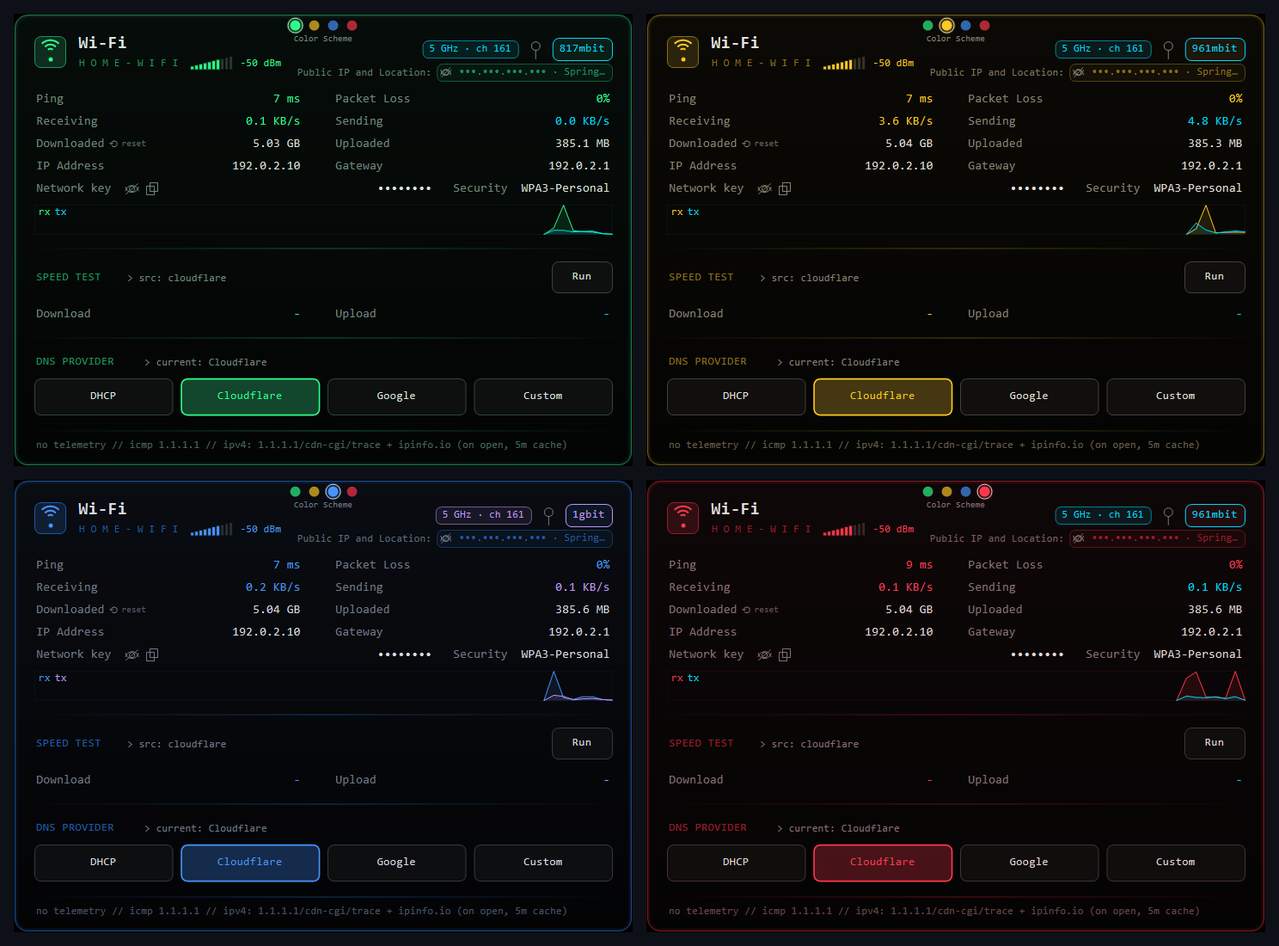
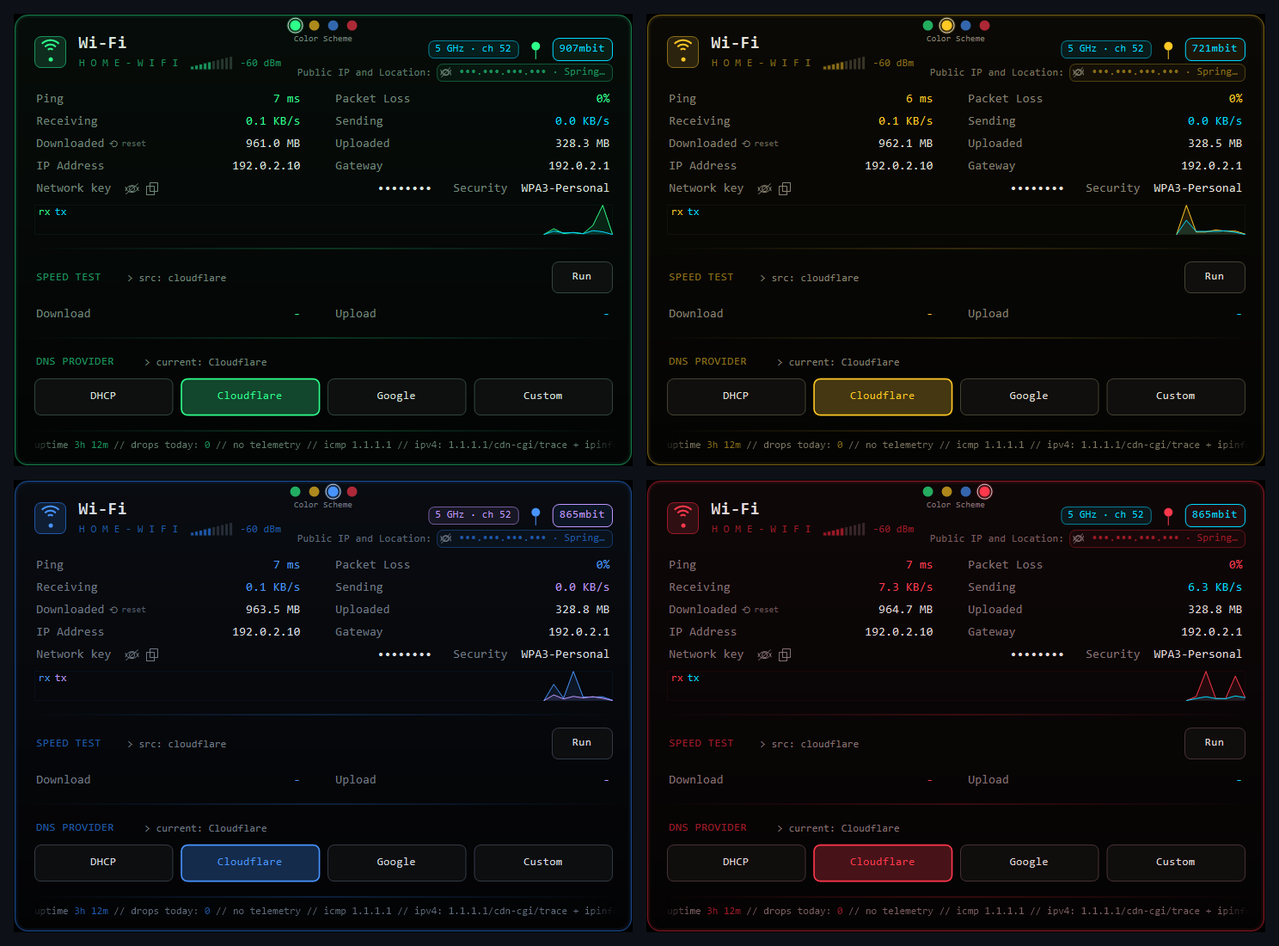
Footer: connection uptime (Windows NetworkProfile log), drops today, smooth marquee; docs and v1.2.0 checksums

diff --git a/NetPanel.cs b/NetPanel.cs
@@ -1,4 +1,4 @@
-using System;using System.Drawing;using System.Drawing.Drawing2D;using System.Windows.Forms;using System.Net;using System.Net.NetworkInformation;using System.Net.Sockets;
+using System;using System.Globalization;using System.Drawing;using System.Drawing.Drawing2D;using System.Windows.Forms;using System.Net;using System.Net.NetworkInformation;using System.Net.Sockets;
 using System.Collections.Generic;using System.Linq;using System.Threading;using System.Threading.Tasks;using System.Diagnostics;using System.IO;using Microsoft.Win32;using System.Runtime.InteropServices;using System.Text.RegularExpressions;using System.Management;
 class P{
  [DllImport("iphlpapi.dll")] static extern int GetBestInterface(uint dest,out uint idx);
@@ -14,7 +14,7 @@ class P{
   if(a.Length>0&&a[0]=="--trigger"){try{EventWaitHandle.OpenExisting("NetPanel_"+P.U+"_test").Set();}catch{return 2;}return 0;}
   if(!created&&shot==null) return 0;
   Application.EnableVisualStyles();
-  if(shot!=null){var f=new Panel();int ti=Array.IndexOf(a,"--theme");if(ti>=0&&ti+1<a.Length){int tv=Array.IndexOf(Th.Names,a[ti+1]);if(tv>=0)Th.Id=tv;}if(a.Contains("--demo"))Demo=true;f.Shot(shot,speed);return 0;}
+  if(shot!=null){var f=new Panel();int ti=Array.IndexOf(a,"--theme");if(ti>=0&&ti+1<a.Length){int tv=Array.IndexOf(Th.Names,a[ti+1]);if(tv>=0)Th.Id=tv;}if(a.Contains("--demo"))Demo=true;int hi2=Array.IndexOf(a,"--hold");int hv;if(hi2>=0&&hi2+1<a.Length&&int.TryParse(a[hi2+1],out hv))f.Hold=hv;f.Shot(shot,speed);return 0;}
   new Tray();Application.Run();GC.KeepAlive(m);return 0;}
  static int SetDns(string[] a){ // --setdns ifIndex mode [servers...]
   string idx=a[1],mode=a[2];string cmd;
@@ -48,10 +48,38 @@ static class Th{
   double q=l<0.5?l*(1+s):l+s-l*s,p=2*l-q;Func<double,double> f=t=>{if(t<0)t+=1;if(t>1)t-=1;return t<1/6.0?p+(q-p)*6*t:t<0.5?q:t<2/3.0?p+(q-p)*(2/3.0-t)*6:p;};
   return Color.FromArgb((int)Math.Round(f(h/360+1/3.0)*255),(int)Math.Round(f(h/360)*255),(int)Math.Round(f(h/360-1/3.0)*255));}
 }
+// ---------- connection uptime / drops (no extra traffic) ----------
+// A drop = the link goes from up to down. Down means no active interface (P.Active()==null: adapter down, no default route, Offline),
+// sampled every 2 s by the tray timer (1 s while the panel is open), or 3 consecutive failed pings (~6 s) while the panel is open and the interface is up.
+// Uptime = since the current connection came up: Windows NetworkProfile connect time (see Sync) when available, else since NetPanel saw it come up / started.
+// A drop NetPanel sees, or resume from sleep/hibernate, restarts uptime. Drops reset at local midnight.
+static class Link{
+ public static bool Up;static bool init,pingDown;static int fails;public static DateTime Since=DateTime.Now,Day=DateTime.Today;public static int Drops;public static Action Changed;
+ static void Roll(){if(DateTime.Today!=Day){Day=DateTime.Today;Drops=0;if(Changed!=null)Changed();}}
+ public static void Iface(bool up){Roll();if(!up){pingDown=false;fails=0;}Set(up&&!pingDown);}
+ public static void Ping(bool ok){Roll();if(!Up&&!pingDown)return;if(ok){fails=0;if(pingDown){pingDown=false;Set(true);}}else if(++fails==3){pingDown=true;Set(false);}}
+ static void Set(bool on){if(!init){init=true;Up=on;Since=DateTime.Now;if(on)Sync();return;}if(Up&&!on){Up=false;gen++;Drops++;Since=DateTime.Now;if(Changed!=null)Changed();}else if(!Up&&on){Up=true;gen++;Since=floor=DateTime.Now;Sync();}}
+ // Windows connect time: newest NetworkProfile/Operational 10000 (connected) for the active adapter's network name, unless a newer
+ // 10001 (disconnected) for that name comes first. Log is readable by Interactive Users (no admin). Queried off the UI thread only
+ // at startup, after a reconnect NetPanel sees, and on resume - never per tick. Result is clamped to 'floor' (last up transition
+ // NetPanel saw itself, or resume from sleep/hibernate) so ping-detected drops and sleep still reset uptime. Not found -> keep local value.
+ static DateTime floor=DateTime.MinValue;static int gen;public static string Src="local";
+ static Link(){try{Microsoft.Win32.SystemEvents.PowerModeChanged+=(s,e)=>{if(e.Mode==Microsoft.Win32.PowerModes.Resume){floor=DateTime.Now;if(Since<floor)Since=floor;Sync();}};}catch{}}
+ public static void Sync(){int g0=gen;DateTime fl=floor;System.Threading.ThreadPool.QueueUserWorkItem(_=>{try{var t=WinConnect();if(t==null)return;var v=t.Value<fl?fl:t.Value;if(v>DateTime.Now)return;
+   if(gen==g0&&Up){Since=v;Src="NetworkProfile 10000";}}catch{}});}
+ public static DateTime? WinConnect(){var n=P.Active();if(n==null)return null;int idx=n.GetIPProperties().GetIPv4Properties().Index;string name=null;
+  using(var q=new System.Management.ManagementObjectSearcher(@"root\StandardCimv2","SELECT Name FROM MSFT_NetConnectionProfile WHERE InterfaceIndex="+idx))foreach(System.Management.ManagementObject o in q.Get()){name=o["Name"] as string;break;}
+  if(string.IsNullOrEmpty(name))return null;
+  var lq=new System.Diagnostics.Eventing.Reader.EventLogQuery("Microsoft-Windows-NetworkProfile/Operational",System.Diagnostics.Eventing.Reader.PathType.LogName,"*[System[(EventID=10000 or EventID=10001)]]"){ReverseDirection=true};
+  using(var r=new System.Diagnostics.Eventing.Reader.EventLogReader(lq))for(int i=0;i<64;i++){using(var e=r.ReadEvent()){if(e==null)break;if(e.Properties.Count<1||(e.Properties[0].Value as string)!=name)continue;
+   return e.Id==10000&&e.TimeCreated.HasValue?e.TimeCreated:null;}}
+  return null;}
+ public static string UptimeText(){if(!Up)return "down";var t=DateTime.Now-Since;return t.TotalDays>=1?(int)t.TotalDays+"d "+t.Hours+"h":t.TotalHours>=1?(int)t.TotalHours+"h "+t.Minutes+"m":t.Minutes+"m";}
+}
 class Tray{
  NotifyIcon ni=new NotifyIcon();Panel panel;System.Windows.Forms.Timer t=new System.Windows.Forms.Timer();long lr,lt;IntPtr hi;
  public Tray(){
-  panel=new Panel();ni.Text="NetPanel";Upd(0,0);ni.Visible=true;
+  panel=new Panel();ni.Text="NetPanel";Upd(0,0);ni.Visible=true;Link.Iface(P.Active()!=null);
   var cm=new ContextMenuStrip();cm.Renderer=new ToolStripProfessionalRenderer(new DarkColors());cm.BackColor=Th.C(12,14,13);cm.ForeColor=Th.C(46,255,138);Panel.ThemeChanged=()=>{cm.BackColor=Th.C(12,14,13);cm.ForeColor=Th.C(46,255,138);Upd(0,0);};cm.Font=new Font("Consolas",10);
   cm.Items.Add("Open",null,(s,e)=>panel.ShowNear());
   var st=new ToolStripMenuItem("Start with Windows"){Checked=Auto,CheckOnClick=true};st.Click+=(s,e)=>Auto=st.Checked;cm.Items.Add(st);
@@ -59,7 +87,7 @@ class Tray{
   ni.MouseClick+=(s,e)=>{if(e.Button==MouseButtons.Left){if(panel.Visible||(DateTime.Now-panel.Hidden).TotalMilliseconds<250)panel.Hide();else panel.ShowNear();}};
   if(P.Dev){var ev=new EventWaitHandle(false,EventResetMode.AutoReset,"NetPanel_"+P.U+"_test");var sync=new System.Windows.Forms.Timer{Interval=1};sync.Dispose();
   var evT=new System.Windows.Forms.Timer{Interval=1000};evT.Tick+=(s,e)=>{if(ev.WaitOne(0)){var cf=Path.Combine(P.Dir,"cmd.txt");if(File.Exists(cf)){var c=File.ReadAllText(cf).Trim();File.Delete(cf);panel.Cmd(c);}else panel.SelfTest();}};evT.Start();GC.KeepAlive(ev);}
-  t.Interval=2000;t.Tick+=(s,e)=>{try{var n=P.Active();var st2=n.GetIPStatistics();long r=st2.BytesReceived,x=st2.BytesSent;Upd(lr==0?0:r-lr,lt==0?0:x-lt);lr=r;lt=x;}catch{}};t.Start();}
+  t.Interval=2000;t.Tick+=(s,e)=>{try{var n=P.Active();Link.Iface(n!=null);var st2=n.GetIPStatistics();long r=st2.BytesReceived,x=st2.BytesSent;Upd(lr==0?0:r-lr,lt==0?0:x-lt);lr=r;lt=x;}catch{}};t.Start();}
  static bool Auto{get{using(var k=Registry.CurrentUser.OpenSubKey(@"Software\Microsoft\Windows\CurrentVersion\Run"))return k.GetValue("NetPanel")!=null;}
   set{using(var k=Registry.CurrentUser.CreateSubKey(@"Software\Microsoft\Windows\CurrentVersion\Run")){if(value)k.SetValue("NetPanel","\""+Application.ExecutablePath+"\"");else k.DeleteValue("NetPanel",false);}}}
  void Upd(long rx,long tx){
@@ -81,13 +109,15 @@ class Panel:Form{
  System.Windows.Forms.Timer tick=new System.Windows.Forms.Timer(),pingT=new System.Windows.Forms.Timer();
  NetworkInterface nic;long lr=-1,lt=-1;double rxR,txR;long totR,totT;string ip="-",gw="-",name="-",speedBadge="",dnsCur="?";int ifIdx=-1;
  Queue<long> pings=new Queue<long>();double lastPing=-1;List<double> rxH=new List<double>(),txH=new List<double>();
- public DateTime Hidden;bool testing;string stPhase="";double stProg,dlM=-1,ulM=-1;string status="";
+ public DateTime Hidden;bool testing;string stPhase="";double stProg,dlM=-1,ulM=-1;string st_="";DateTime stAt;string status{get{return st_;}set{st_=value??"";stAt=DateTime.Now;}}
  RectangleF runR;RectangleF[] dnsR=new RectangleF[4];string[] dnsN={"DHCP","Cloudflare","Google","Custom"};int hover=-2;
  public Panel(){FormBorderStyle=FormBorderStyle.None;ShowInTaskbar=false;TopMost=true;StartPosition=FormStartPosition.Manual;Size=new Size(720,526);BackColor=Color.Black;DoubleBuffered=true;KeyPreview=true;
   tick.Interval=1000;tick.Tick+=(s,e)=>Refresh1();pingT.Interval=2000;pingT.Tick+=(s,e)=>DoPing();
   KeyDown+=(s,e)=>{if(e.KeyCode==Keys.Escape)Hide();};Deactivate+=(s,e)=>OnDeact();NetworkChange.NetworkAddressChanged+=(s,e)=>{try{BeginInvoke((Action)(()=>{netFor=null;ipFor=null;if(Visible){Refresh1();MaybeIp();}}));}catch{}};LoadSettings();
   MouseDown+=(s,e)=>{if(pinned&&e.Button==MouseButtons.Left&&Hit(e.Location)==-2){ReleaseCapture();SendMessage(Handle,0xA1,(IntPtr)2,IntPtr.Zero);px=Left;py=Top;SaveSettings();}};
   anim=new System.Windows.Forms.Timer{Interval=80};anim.Tick+=(s,e)=>{if(rssi!=int.MinValue){double t=Math.Max(0,Math.Min(1,(rssi+90)/60.0));shownLvl+=(t-shownLvl)*0.2;}Invalidate(new Rectangle(70,44,330,26));};
+  Link.Changed=()=>{try{if(IsHandleCreated&&InvokeRequired)BeginInvoke((Action)SaveSettings);else SaveSettings();}catch{}};footT.Interval=15;footT.Tick+=(s,e)=>FootTick();
+  VisibleChanged+=(s,e)=>{if(!Visible)footT.Stop();};
   VisibleChanged+=(s,e)=>{if(Visible){tick.Start();anim.Start();pingT.Start();Refresh1();DoPing();MaybeIp();}else{tick.Stop();pingT.Stop();anim.Stop();tip.SetToolTip(this,"");Hidden=DateTime.Now;wkey=null;reveal=false;}};
   MouseMove+=(s,e)=>{bool ok=reveal&&wkey!=null&&keyR.Contains(e.Location)&&keyMode.Contains("ellipsized");if(ok&&tip.GetToolTip(this)!=wkey)tip.SetToolTip(this,wkey);else if(!ok&&tip.GetToolTip(this)!="")tip.SetToolTip(this,"");int h=Hit(e.Location);if(h!=hover){hover=h;Cursor=h>-2?Cursors.Hand:Cursors.Default;Invalidate();}};
   MouseClick+=(s,e)=>Click1(Hit(e.Location));
@@ -101,7 +131,7 @@ class Panel:Form{
  bool IsWifi(NetworkInterface n){var t=n.NetworkInterfaceType;if(t==NetworkInterfaceType.Wireless80211)return true;if(t==NetworkInterfaceType.Ethernet||t==NetworkInterfaceType.GigabitEthernet)return false;
   if(wlanIds==null){wlanIds=new HashSet<string>();try{if(wlanH==IntPtr.Zero){int nv;WlanOpenHandle(2,IntPtr.Zero,out nv,out wlanH);}IntPtr list;if(WlanEnumInterfaces(wlanH,IntPtr.Zero,out list)==0){int c=Marshal.ReadInt32(list);for(int i=0;i<c;i++){var b=new byte[16];Marshal.Copy(list+8+i*532,b,0,16);wlanIds.Add(new Guid(b).ToString("B").ToUpperInvariant());}WlanFreeMemory(list);}}catch{}}
   return wlanIds.Contains(n.Id.ToUpperInvariant());}
- void Refresh1(){try{var n=P.Active();if(n==null){if(!offline){offline=true;nic=null;name="Offline";netName="";isWifi=false;rxR=txR=0;ip=gw="-";speedBadge="no link";rssi=int.MinValue;bandCh="";}Invalidate();return;}offline=false;if(nic==null||n.Id!=nic.Id){nic=n;lr=-1;lt=-1;}
+ void Refresh1(){try{var n=P.Active();Link.Iface(n!=null);if(n==null){if(!offline){offline=true;nic=null;name="Offline";netName="";isWifi=false;rxR=txR=0;ip=gw="-";speedBadge="no link";rssi=int.MinValue;bandCh="";}Invalidate();return;}offline=false;if(nic==null||n.Id!=nic.Id){nic=n;lr=-1;lt=-1;}
    var s=nic.GetIPStatistics();if(lr>=0){rxR=Math.Max(0,s.BytesReceived-lr);txR=Math.Max(0,s.BytesSent-lt);}lr=s.BytesReceived;lt=s.BytesSent;long[] bs;if(!bases.TryGetValue(nic.Id,out bs)){bs=new long[]{0,0};bases[nic.Id]=bs;}if(lr<bs[0]||lt<bs[1]){bs[0]=0;bs[1]=0;SaveSettings();}totR=lr-bs[0];totT=lt-bs[1];isWifi=IsWifi(nic);
    if((DateTime.Now-netQ).TotalSeconds>5||netFor!=nic.Id){netQ=DateTime.Now;netFor=nic.Id;var nn=nic;Task.Run(()=>QueryNet(nn));}
    rxH.Add(rxR);txH.Add(txR);if(rxH.Count>60){rxH.RemoveAt(0);txH.RemoveAt(0);}
@@ -121,7 +151,7 @@ class Panel:Form{
   // registry unreadable: fall back to a freshly enumerated adapter's IPv4 DNS list
   var f=Fresh(P.Index(n))??n;try{var a=f.GetIPProperties().DnsAddresses.FirstOrDefault(x=>x.AddressFamily==AddressFamily.InterNetwork);return a==null?"DHCP":Classify(a.ToString());}catch{return "?";}}
  void DoPing(){var pg=new Ping();pg.PingCompleted+=(s,e)=>{long v=(e.Error==null&&e.Reply!=null&&e.Reply.Status==IPStatus.Success)?e.Reply.RoundtripTime:-1;
-   lock(pings){pings.Enqueue(v);while(pings.Count>20)pings.Dequeue();}if(v>=0)lastPing=v;pg.Dispose();if(IsHandleCreated)BeginInvoke((Action)Invalidate);};
+   lock(pings){pings.Enqueue(v);while(pings.Count>20)pings.Dequeue();}if(v>=0)lastPing=v;pg.Dispose();if(IsHandleCreated)BeginInvoke((Action)(()=>Link.Ping(v>=0)));if(IsHandleCreated)BeginInvoke((Action)Invalidate);};
   try{pg.SendAsync(IPAddress.Parse("1.1.1.1"),1500,null);}catch{}}
  void Click1(int h){if(h>=20&&h<=23){SetTheme(h-20);return;}if(h==15){ipMask=!ipMask;Invalidate();return;}if(h==14){if(pubIp!=null){try{Clipboard.SetText(pubIp);status="public ip copied to clipboard";}catch{}Invalidate();}else if(ipState=="offline")MaybeIp(true);return;}if(h==10){DoReset();return;}if(h==11){pinned=!pinned;if(pinned){px=Left;py=Top;}SaveSettings();Invalidate();return;}if(h==12){if(reveal){reveal=false;Invalidate();}else FetchKey(()=>{reveal=true;});return;}if(h==13){FetchKey(()=>{try{Clipboard.SetText(wkey);status="network key copied to clipboard";}catch{}});return;}if(h==-1&&!testing)RunSpeed();else if(h>=0)SetDns(h);}
  // ---------- speed test ----------
@@ -189,6 +219,7 @@ class Panel:Form{
   var fill=new List<PointF>(pts){new PointF(pts.Last().X,r.Bottom),new PointF(pts[0].X,r.Bottom)};g.FillPolygon(new SolidBrush(Color.FromArgb(28,c)),fill.ToArray());g.DrawLines(new Pen(c,1.4f),pts.ToArray());}
  protected override void OnPaint(PaintEventArgs e){if(P.Demo){ip="192.0.2.10";gw="192.0.2.1";netName="HOME-WIFI";mac="00:00:5E:00:53:01";pubIp="203.0.113.7";pubLoc="Springfield";ipMask=true;reveal=false;}var g=e.Graphics;g.SmoothingMode=SmoothingMode.AntiAlias;g.TextRenderingHint=System.Drawing.Text.TextRenderingHint.ClearTypeGridFit;
   var full=new RectangleF(0,0,Width-1,Height-1);using(var p=Rnd(full,16))using(var bg=new LinearGradientBrush(full,Th.C(6,12,9),Th.C(3,4,4),90f))g.FillPath(bg,p);
+  if(footR.Contains(e.ClipRectangle)){Footer(g);return;}
   for(int i=4;i>=1;i--)using(var p=Rnd(new RectangleF(i,i,Width-1-2*i,Height-1-2*i),16-i))g.DrawPath(new Pen(Th.C(18*(5-i),25,146,91),1.5f),p);
   using(var p=Rnd(new RectangleF(1,1,Width-3,Height-3),15))g.DrawPath(new Pen(Th.C(200,25,146,91),1.2f),p);
   // header icon
@@ -218,7 +249,7 @@ class Panel:Form{
   Row(g,340,"Download",dlM==-2?"error: "+(dlErr??"?"):dlM<0?"-":dlM.ToString("0")+" Mbps","Upload",ulM<0?"-":ulM.ToString("0")+" Mbps",HI,CY);
   Sep(g,376);g.DrawString("DNS PROVIDER",fB,new SolidBrush(EM),24,396);g.DrawString("> current: "+dnsCur,fS,new SolidBrush(DIM),150,398);
   float bw=(Width-48-3*10)/4f;for(int i=0;i<4;i++){dnsR[i]=new RectangleF(24+i*(bw+10),424,bw,42);Btn(g,dnsR[i],dnsN[i],dnsCur==dnsN[i],hover==i);}
-  Sep(g,484);g.DrawString(status!=""?status:"no telemetry // icmp 1.1.1.1 // ipv4: "+(ipSrc??"1.1.1.1/cdn-cgi/trace + ipinfo.io")+" (on open, 5m cache)",fS,new SolidBrush(Th.C(70,100,85)),24,494);}
+  Sep(g,484);Footer(g);}
  // ---------- theme bubbles (hit codes 20-23) ----------
  RectangleF[] thR=new RectangleF[4];public static Action ThemeChanged;int themeSaved;
  void Bubbles(Graphics g){const float D=12,GAP=10;float x0=Width/2f-(4*D+3*GAP)/2f,y=7;
@@ -228,6 +259,33 @@ class Panel:Form{
    if(sel)using(var pn=new Pen(Color.FromArgb(230,TX),1.3f))g.DrawEllipse(pn,RectangleF.Inflate(r,2.5f,2.5f));else if(hov)using(var pn=new Pen(Color.FromArgb(150,c),1f))g.DrawEllipse(pn,RectangleF.Inflate(r,2.5f,2.5f));}
   var lf=new Font("Consolas",7.5f);g.DrawString("Color Scheme",lf,new SolidBrush(DIM),new RectangleF(Width/2f-60,23,120,12),new StringFormat{Alignment=StringAlignment.Center});lf.Dispose();}
  void SetTheme(int t){if(t<0||t>3)return;Th.Id=t;themeSaved=t;SaveSettings();if(ThemeChanged!=null)ThemeChanged();Invalidate();}
+ // ---------- footer: uptime/drops + brief action messages + smooth marquee ----------
+ static readonly Rectangle footR=new Rectangle(20,488,680,26);const float FX=24,FW=672,FY=494,SPEED=35f;const double MSG=4.0,FADE=0.35;
+ System.Windows.Forms.Timer footT=new System.Windows.Forms.Timer();Stopwatch footSw=Stopwatch.StartNew();double footLast,mqPos;bool footAnim;string footMode="";
+ static StringFormat TypoFmt(){var f=(StringFormat)StringFormat.GenericTypographic.Clone();f.FormatFlags|=StringFormatFlags.MeasureTrailingSpaces|StringFormatFlags.NoWrap;return f;}
+ static readonly StringFormat typo=TypoFmt();
+ List<KeyValuePair<string,Color>> FootSegs(out string mode,out int alpha){var segs=new List<KeyValuePair<string,Color>>();Color dim=Th.C(95,125,108),acc=EM;alpha=255;
+  double age=(DateTime.Now-stAt).TotalSeconds;
+  if(st_!=""&&age<MSG){mode="msg:"+st_;if(age>MSG-FADE)alpha=(int)(255*(MSG-age)/FADE);else if(age<FADE)alpha=(int)(255*age/FADE);segs.Add(new KeyValuePair<string,Color>(st_,TX));return segs;}
+  mode="default";if(st_!=""&&age<MSG+FADE)alpha=(int)(255*Math.Min(1,(age-MSG)/FADE));
+  string up=P.Demo?"3h 12m":Link.UptimeText(),dr=P.Demo?"0":Link.Drops.ToString();
+  segs.Add(new KeyValuePair<string,Color>("uptime ",dim));segs.Add(new KeyValuePair<string,Color>(up,acc));segs.Add(new KeyValuePair<string,Color>(" // drops today: ",dim));
+  segs.Add(new KeyValuePair<string,Color>(dr,Link.Drops>0&&!P.Demo?HI:acc));
+  segs.Add(new KeyValuePair<string,Color>(" // no telemetry // icmp 1.1.1.1 // ipv4: "+(ipSrc??"1.1.1.1/cdn-cgi/trace + ipinfo.io")+" (on open, 5m cache)",dim));return segs;}
+ float DrawSegs(Graphics g,List<KeyValuePair<string,Color>> segs,float x,int alpha,bool draw){foreach(var sg in segs){float w=g.MeasureString(sg.Key,fS,PointF.Empty,typo).Width;
+   if(draw&&x<FX+FW&&x+w>FX)using(var b=new SolidBrush(Color.FromArgb(alpha*sg.Value.A/255,sg.Value)))g.DrawString(sg.Key,fS,b,x,FY,typo);x+=w;}return x;}
+ void Footer(Graphics g){string mode;int alpha;var segs=FootSegs(out mode,out alpha);if(mode!=footMode){footMode=mode;mqPos=0;}
+  var st=g.Save();g.SetClip(new RectangleF(FX-4,footR.Y,FW+8,footR.Height));float w=DrawSegs(g,segs,0,0,false);bool scroll=w>FW;
+  double age=(DateTime.Now-stAt).TotalSeconds;footAnim=scroll||(st_!=""&&age<MSG+FADE);
+  if(!scroll)DrawSegs(g,segs,FX,alpha,true);
+  else{g.TextRenderingHint=System.Drawing.Text.TextRenderingHint.AntiAlias;const string SEP="   \u2022   ";float sw=g.MeasureString(SEP,fS,PointF.Empty,typo).Width,cyc=w+sw;if(mqPos>=cyc)mqPos%=cyc;
+   for(float x=FX-(float)mqPos;x<FX+FW;x+=cyc){DrawSegs(g,segs,x,alpha,true);using(var b=new SolidBrush(Color.FromArgb(alpha*140/255,EM)))g.DrawString(SEP,fS,b,x+w,FY,typo);}
+   // soft fade at both edges: blend into the panel background
+   float t=(float)FY/Height;Color a1=Th.C(6,12,9),a2=Th.C(3,4,4),bgc=Color.FromArgb((int)(a1.R+(a2.R-a1.R)*t),(int)(a1.G+(a2.G-a1.G)*t),(int)(a1.B+(a2.B-a1.B)*t));const float E=28;
+   using(var lb=new LinearGradientBrush(new RectangleF(FX-5,0,E+1,10),bgc,Color.FromArgb(0,bgc),0f))g.FillRectangle(lb,FX-4,footR.Y,E,footR.Height);
+   using(var rb=new LinearGradientBrush(new RectangleF(FX+FW-E-1,0,E+5,10),Color.FromArgb(0,bgc),bgc,0f))g.FillRectangle(rb,FX+FW-E+4,footR.Y,E,footR.Height);}
+  g.Restore(st);if(footAnim&&Visible&&!footT.Enabled){footLast=footSw.Elapsed.TotalSeconds;footT.Start();}}
+ void FootTick(){double now=footSw.Elapsed.TotalSeconds,dt=Math.Min(0.1,now-footLast);footLast=now;if(!Visible||!footAnim){footT.Stop();Invalidate(footR);return;}mqPos+=SPEED*dt;Invalidate(footR);}
  bool shooting;
 
  [DllImport("user32.dll")] static extern bool ReleaseCapture();[DllImport("user32.dll")] static extern IntPtr SendMessage(IntPtr h,int m,IntPtr w,IntPtr l);
@@ -235,9 +293,9 @@ class Panel:Form{
  bool isWifi,reveal;string wkey,keyErr,netName="",auth="-",netFor;DateTime netQ;RectangleF resetR,pinR,eyeR,copyR;
  string SetPath{get{return Path.Combine(P.Dir,"settings");}}
  void LoadSettings(){try{foreach(var l in File.ReadAllLines(SetPath)){var kv=l.Split(new[]{'='},2);if(kv.Length<2)continue;
-   if(kv[0]=="pinned")pinned=kv[1]=="1";else if(kv[0]=="theme"){int tv;if(int.TryParse(kv[1],out tv)&&tv>=0&&tv<4){Th.Id=tv;themeSaved=tv;}}else if(kv[0]=="pos"){var p=kv[1].Split(',');px=int.Parse(p[0]);py=int.Parse(p[1]);}
+   if(kv[0]=="pinned")pinned=kv[1]=="1";else if(kv[0]=="drops"){var p=kv[1].Split(',');DateTime d;int n;if(p.Length==2&&DateTime.TryParseExact(p[0],"yyyy-MM-dd",CultureInfo.InvariantCulture,DateTimeStyles.None,out d)&&d==DateTime.Today&&int.TryParse(p[1],out n)){Link.Drops=n;Link.Day=d;}}else if(kv[0]=="theme"){int tv;if(int.TryParse(kv[1],out tv)&&tv>=0&&tv<4){Th.Id=tv;themeSaved=tv;}}else if(kv[0]=="pos"){var p=kv[1].Split(',');px=int.Parse(p[0]);py=int.Parse(p[1]);}
    else if(kv[0].StartsWith("base.")){var p=kv[1].Split(',');bases[kv[0].Substring(5)]=new[]{long.Parse(p[0]),long.Parse(p[1])};}}}catch{}}
- void SaveSettings(){try{Directory.CreateDirectory(P.Dir);var L=new List<string>{"pinned="+(pinned?"1":"0")};if(themeSaved!=0)L.Add("theme="+themeSaved);if(px!=int.MinValue)L.Add("pos="+px+","+py);
+ void SaveSettings(){try{Directory.CreateDirectory(P.Dir);var L=new List<string>{"pinned="+(pinned?"1":"0")};if(themeSaved!=0)L.Add("theme="+themeSaved);if(Link.Drops>0)L.Add("drops="+Link.Day.ToString("yyyy-MM-dd",CultureInfo.InvariantCulture)+","+Link.Drops);if(px!=int.MinValue)L.Add("pos="+px+","+py);
    foreach(var kv in bases)L.Add("base."+kv.Key+"="+kv.Value[0]+","+kv.Value[1]);File.WriteAllLines(SetPath,L);}catch{}}
  public void DoReset(){if(nic==null)return;var s=nic.GetIPStatistics();bases[nic.Id]=new[]{s.BytesReceived,s.BytesSent};SaveSettings();Refresh1();}
  void OnDeact(){if(!shooting&&!pinned)Hide();}
@@ -333,8 +391,11 @@ class Panel:Form{
   if(pubIp!=null)Eye(g,new RectangleF(x+3,60,14,15),!ipMask,hover==15);}
  public void SelfTest(){shooting=true;ShowNear();RunSpeed().ContinueWith(_=>BeginInvoke((Action)(()=>{Refresh1();var p=Path.Combine(P.Dir,"shot.png");var b=new Bitmap(Width,Height);DrawToBitmap(b,new Rectangle(0,0,Width,Height));b.Save(p);b.Dispose();
    File.WriteAllText(Path.Combine(P.Dir,"shot.txt"),"tray dl="+dlM.ToString("0.0")+" src="+dlSrc+" err="+dlErr+" ul="+ulM.ToString("0.0"));shooting=false;})));}
+ public int Hold;[DllImport("user32.dll")] static extern bool WaitMessage();
  public void Shot(string path,bool speed){shooting=true;Opacity=0.01;ShowNear();var end=DateTime.Now.AddSeconds(6);
   Task st=speed?RunSpeed():null;while(DateTime.Now<end||(st!=null&&!st.IsCompleted)){Application.DoEvents();Thread.Sleep(50);}Refresh1();
+  if(Hold>0){var hw=Stopwatch.StartNew();while(hw.Elapsed.TotalSeconds<Hold){Application.DoEvents();WaitMessage();}}
+  else if(P.Demo)mqPos=0;
   var b=new Bitmap(Width,Height);DrawToBitmap(b,new Rectangle(0,0,Width,Height));b.Save(path);
   File.WriteAllText(Path.ChangeExtension(path,".txt"),"adapter="+name+" ip="+ip+" gw="+gw+" ping="+lastPing+" rx="+rxR+" dns="+dnsCur+" dl="+dlM.ToString("0.0")+" src="+dlSrc+" err="+dlErr+" ul="+ulM.ToString("0.0")+" status="+status);}
 }

diff --git a/README.md b/README.md
@@ -26,8 +26,9 @@ Inspired by the Omarchy network panel — dark, emerald, Consolas, one click awa
 - **Speed test** — multi-stream download/upload against Cloudflare (Hetzner fallback for download).
 - **One-click DNS** — DHCP, Cloudflare, Google or Custom, applied through an elevated helper (UAC prompt) with a backup of the previous servers.
 - **Color schemes** — four bubbles at the top of the panel switch the accent instantly between **green** (default), **yellow**, **blue** and **red**; the choice is remembered. See [Color schemes](#-color-schemes).
+- **Status footer** — connection uptime (read from Windows, so it is right even after a restart), drops today, and the privacy summary, with a smooth marquee when it doesn't fit. See [Footer](#-footer).
 - **Pin & drag** the panel anywhere; **Start with Windows** toggle in the tray menu.
-- Single ~64 KB exe, no installer, no runtime to download, no admin required (except when changing DNS).
+- Single ~75 KB exe, no installer, no runtime to download, no admin required (except when changing DNS).
 
 ## ◐ Color schemes
 
@@ -46,6 +47,19 @@ The theme recolors the text highlights, active button, borders, signal meter, gr
 
 <sub>Screenshots use dummy values.</sub>
 
+## ▭ Footer
+
+The bottom line of the panel reads, for example:
+
+`uptime 3h 12m // drops today: 0 // no telemetry // icmp 1.1.1.1 // ipv4: 1.1.1.1/cdn-cgi/trace + ipinfo.io (on open, 5m cache)`
+
+- **Uptime** is how long the current connection has been continuously up. NetPanel reads the connect time from the Windows event log `Microsoft-Windows-NetworkProfile/Operational`: the newest *connected* event (10000) for the active adapter's network, if no newer *disconnected* event (10001) follows it. That log is readable without admin rights. It is read at startup, after a reconnect and on resume, never on a timer, so uptime is accurate right after NetPanel restarts. If nothing is found, uptime counts from when NetPanel started or last saw the link come up.
+- **A drop NetPanel sees resets uptime**, even when Windows logged no disconnect (for example, pings failing while the adapter stays up).
+- **Sleep / hibernate:** on resume, uptime restarts from the wake-up time; if Windows reconnects the network after waking (normal for Wi-Fi), it follows that connect event.
+- **Drops today** counts up→down transitions since local midnight. *Down* means no active connection (adapter down, no default route or offline; checked every 2 s by the tray, every 1 s while the panel is open) or 3 consecutive failed pings (~6 s) while the panel is open. The count is saved in `settings` (`drops=`) and resets at midnight. No extra network traffic: it reuses the existing pings, which only run while the panel is open.
+- **Action messages** (for example "public ip copied to clipboard", DNS or speed-test status) replace the line for about 4 s, then fade back.
+- **Marquee:** when the line is wider than the panel it scrolls smoothly (~35 px/s) in a seamless loop with soft fades at both edges. Text that fits does not scroll, and animation runs only while the panel is visible.
+
 ## ⇩ Install
 
 1. Download **`NetPanel.exe`** from the [latest release](https://github.com/buchanonp/NetPanel/releases/latest).
@@ -55,7 +69,7 @@ The theme recolors the text highlights, active button, borders, signal meter, gr
 > **SmartScreen:** the exe is not code-signed, so Windows may show *"Windows protected your PC"*.
 > Click **More info → Run anyway**. You can also build it yourself from source (below) in a few seconds.
 
-Prefer a scripted install? Download `NetPanel-v1.1.0.zip`, extract, and run:
+Prefer a scripted install? Download `NetPanel-v1.2.0.zip`, extract, and run:
 
 ```powershell
 powershell -ExecutionPolicy Bypass -File .\install.ps1
@@ -65,7 +79,7 @@ This copies the exe to `%LOCALAPPDATA%\Programs\NetPanel`, unblocks it, adds a p
 
 ### Verify the download
 
-Each release includes `SHA256SUMS` (also as `SHA256SUMS.txt`), listing hashes of `NetPanel.exe` and the zip. A copy for the latest release (v1.1.0) is in this repo as [`SHA256SUMS`](SHA256SUMS). Compare with:
+Each release includes `SHA256SUMS` (also as `SHA256SUMS.txt`), listing hashes of `NetPanel.exe` and the zip. A copy for the latest release (v1.2.0) is in this repo as [`SHA256SUMS`](SHA256SUMS). Compare with:
 
 ```powershell
 Get-FileHash .\NetPanel.exe -Algorithm SHA256
@@ -88,7 +102,7 @@ No telemetry, no accounts, no analytics. The only network traffic NetPanel gener
 | Only when you click **Run** | `speed.cloudflare.com` (fallback `ash-speed.hetzner.com`) | speed test |
 
 The Wi-Fi key is read locally via `netsh` only when you click reveal/copy and is kept in memory only.
-Local files live in `%LOCALAPPDATA%\NetPanel`: `settings` (pin/position/counter baseline/color scheme) and `dns-backup.txt` (written only when you change DNS); `speedtest.log` only if you run with `--log`.
+Local files live in `%LOCALAPPDATA%\NetPanel`: `settings` (pin/position/counter baseline/color scheme/today's drop count) and `dns-backup.txt` (written only when you change DNS); `speedtest.log` only if you run with `--log`.
 
 ## 🛠 Build from source
 
@@ -111,6 +125,7 @@ build.cmd
 | `--shot <file.png> [--speed]` | render the panel to a PNG (plus a `.txt` summary) without the tray, optionally after a speed test |
 | `--shot … --theme <green\|yellow\|blue\|red>` | render with that color scheme (not saved to settings) |
 | `--shot … --demo` | render with dummy values (documentation IPs, fake SSID/location), useful for screenshots |
+| `--shot … --hold <seconds>` | keep the panel running (animations included) for that many seconds before capturing, e.g. to check the footer marquee |
 
 The hook is inactive in normal runs.
 
